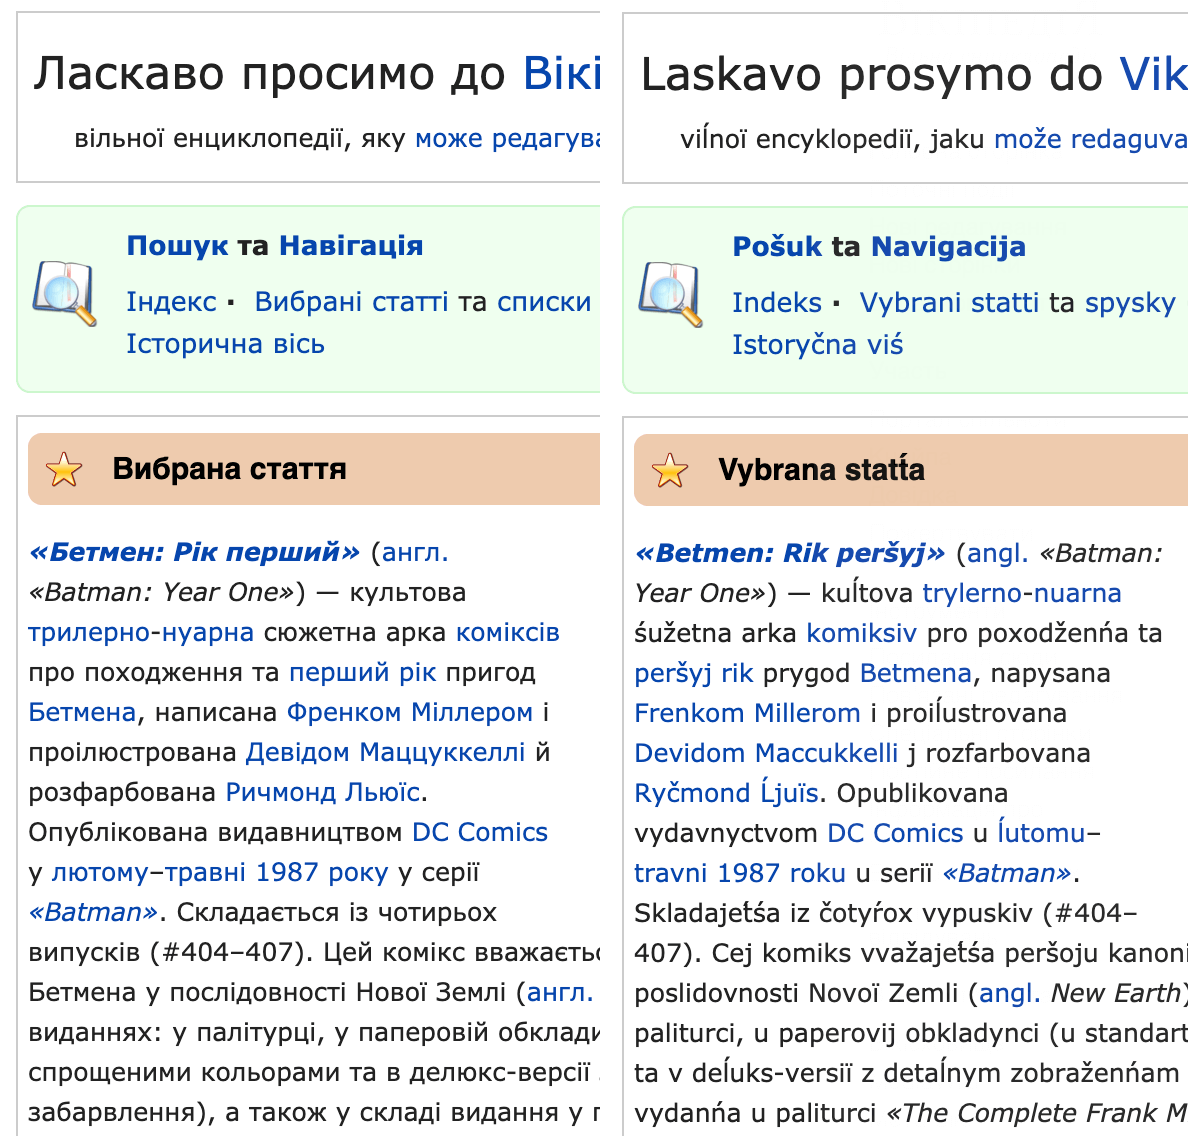
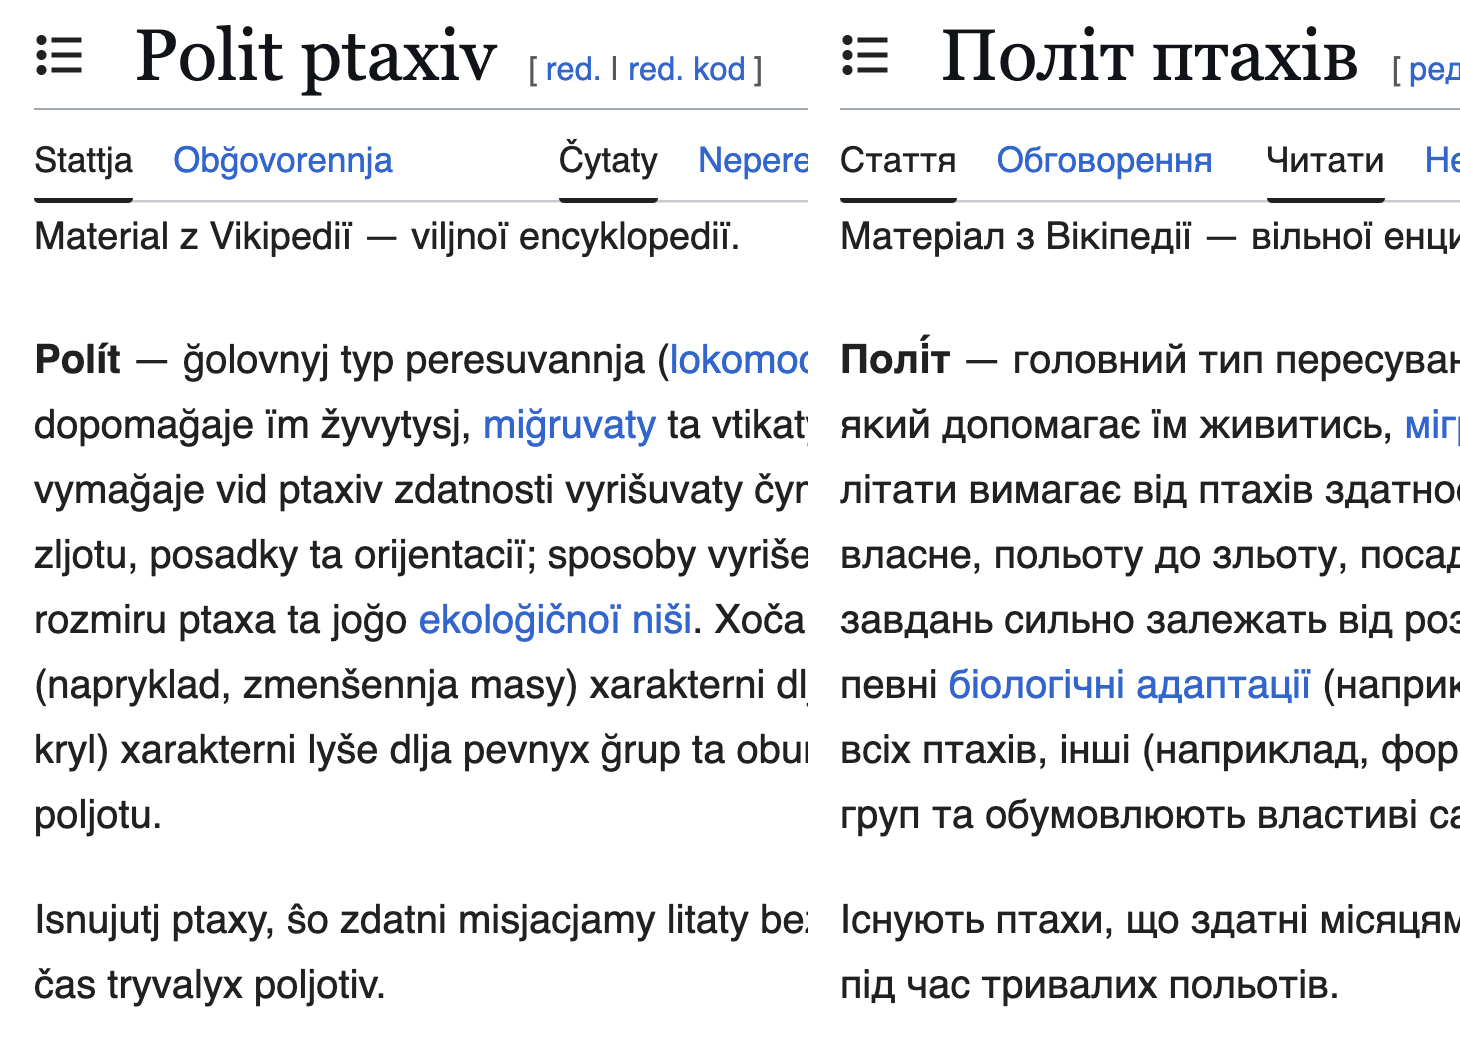
update screenshots

diff --git a/en/index.html b/en/index.html
@@ -114,7 +114,7 @@ Automatic transliteration of Cyrillic text into Latin on web pages.
 </div>
 
 <div class="i">
-<img src="../img/l/splitscreen.png" width="600">
+<img src="../img/l/splitscreen.png" width="730">
 </div>
 
 <div class="t">

diff --git a/index.html b/index.html
@@ -114,7 +114,7 @@ div.t { background-color: #34343c; }
 </div>
 
 <div class="i">
-<img src="img/l/splitscreen.png" width="600">
+<img src="img/l/splitscreen.png" width="730">
 </div>
 
 <div class="t">
